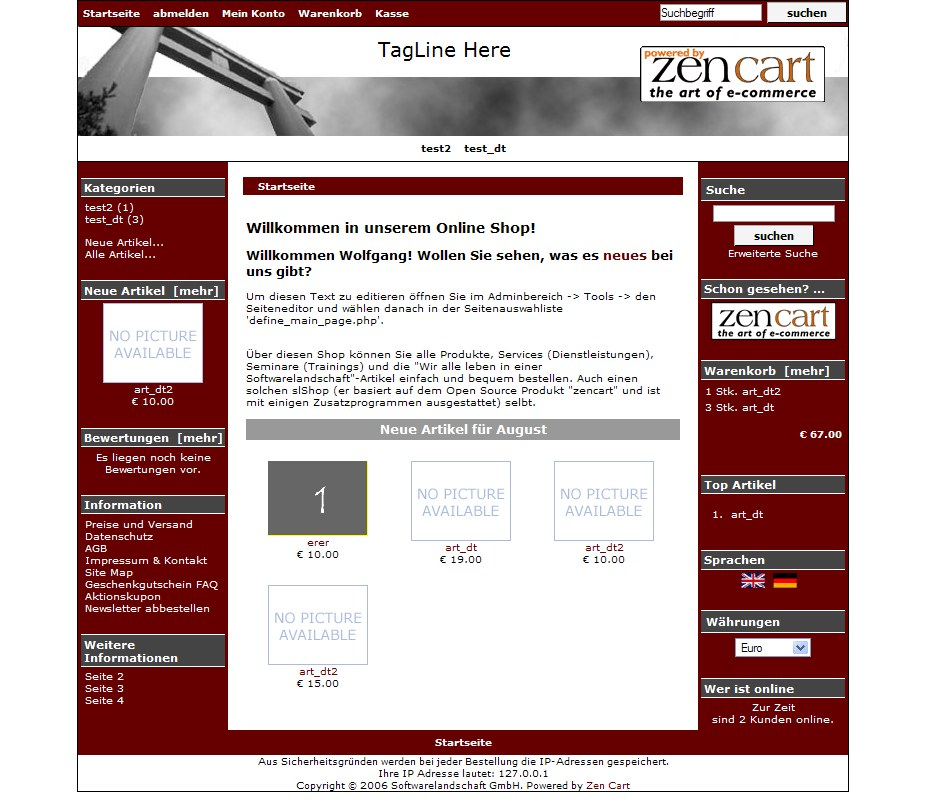
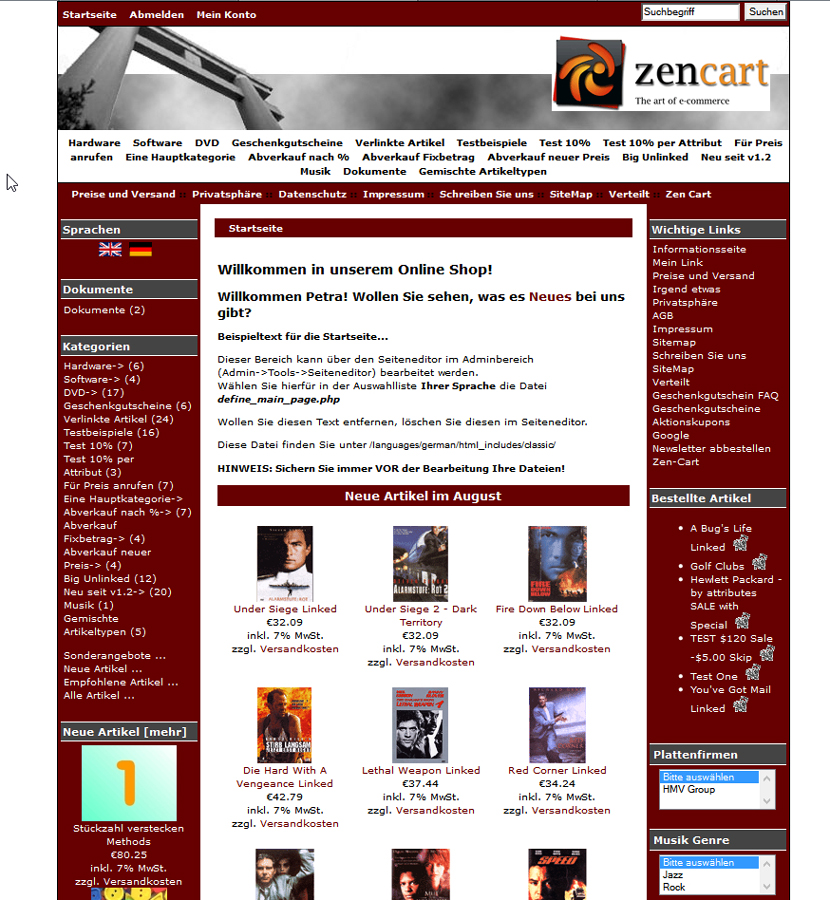
Aktualisierung Viennablood

diff --git a/branches/zc151/includes/templates/viennablood/css/stylesheet.css b/branches/zc151/includes/templates/viennablood/css/stylesheet.css
@@ -5,7 +5,7 @@
  * @copyright Copyright 2003-2013 Zen Cart Development Team
  * @copyright Portions Copyright 2003 osCommerce
  * @license http://www.zen-cart-pro.at/license/2_0.txt GNU Public License V2.0
- * @version $Id: stylesheet.css 836 2012-01-01 20:33:58Z webchills $
+ * @version $Id: stylesheet.css 837 2013-08-17 17:33:58Z webchills $
  */
 
 body {
@@ -55,9 +55,7 @@ FORM, SELECT, INPUT {
 	margin: 0.1em;
 	}
 
-input {
-	border: 1px solid;
-}
+
 input[type="hidden"] {
 	display:none;
 }
@@ -94,7 +92,7 @@ LABEL.checkboxLabel, LABEL.radioButtonLabel {
 	}
 	
 #logo {
-	margin-top: 15px;
+	margin-top: 10px;
 	float: right;
 	padding-right: 20px;
 }
@@ -144,7 +142,7 @@ HR {
 #mainWrapper {
 	text-align: left;
     width: 770px;
-    width: 95%;
+    
 	vertical-align: top;
 	}
 
@@ -155,7 +153,7 @@ HR {
 
 #logoWrapper {
     width:770px;
-    width:95%;
+    
 	height:110px;
 	}
 
@@ -318,7 +316,7 @@ HR {
 	float: right;
 	text-align: center;
 	margin: 1em;
-	border: 1px solid;
+	
 	padding: 1em;
 	}
 

diff --git a/branches/zc151/includes/templates/viennablood/css/stylesheet_colors.css b/branches/zc151/includes/templates/viennablood/css/stylesheet_colors.css
@@ -164,7 +164,7 @@ h3.leftBoxHeading a:hover, h3.rightBoxHeading a:hover{
 }
 
 .centerBoxHeading {
-	background-color: #999999;
+	background-color: #660000;
 	color: #ffffff;
 }
 
@@ -186,7 +186,7 @@ h3.leftBoxHeading a:hover, h3.rightBoxHeading a:hover{
 }
 
 .rowOdd {
-	background-color: #999999;
+	background-color: #FCFCFC;
 }
 
 .rowEven {
@@ -202,7 +202,7 @@ TR.tableHeading {
 }
 	
 .productListing-odd	{
-	background-color:#999999;
+	background-color:#FCFCFC;
 }
 
 .tabTable	{

diff --git a/branches/zc151/includes/templates/viennablood/css/checkout_confirmation.css b/branches/zc151/includes/templates/viennablood/css/checkout_confirmation.css
@@ -1,0 +1,3 @@
+#navColumnTwo{
+	display:none;
+}

diff --git a/branches/zc151/includes/templates/viennablood/css/checkout_payment.css b/branches/zc151/includes/templates/viennablood/css/checkout_payment.css
@@ -1,0 +1,3 @@
+#navColumnTwo{
+	display:none;
+}

diff --git a/branches/zc151/includes/templates/viennablood/css/checkout_shipping.css b/branches/zc151/includes/templates/viennablood/css/checkout_shipping.css
@@ -1,0 +1,3 @@
+#navColumnTwo{
+	display:none;
+}

diff --git a/branches/zc151/includes/templates/viennablood/templates/tpl_product_info_display.php b/branches/zc151/includes/templates/viennablood/templates/tpl_product_info_display.php
@@ -1,18 +1,15 @@
 <?php
 /**
-* Template designed by 12leaves.com
-* 12leaves.com - Free ecommerce templates and design services
-
  * Page Template
  *
  * Loaded automatically by index.php?main_page=product_info.<br />
  * Displays details of a typical product
  *
  * @package templateSystem
- * @copyright Copyright 2003-2006 Zen Cart Development Team
+ * @copyright Copyright 2003-2013 Zen Cart Development Team
  * @copyright Portions Copyright 2003 osCommerce
  * @license http://www.zen-cart-pro.at/license/2_0.txt GNU Public License V2.0
- * @version $Id: tpl_product_info_display.php 746 2011-08-12 07:58:36Z hugo13 $
+ * @version $Id: tpl_product_info_display.php 747 2013-08-17 09:58:36Z webchills $
  */
  //require(DIR_WS_MODULES . '/debug_blocks/product_info_prices.php');
 ?>
@@ -87,7 +84,32 @@ require($template->get_template_dir('/tpl_products_next_previous.php',DIR_WS_TEM
 <?php } ?>
 <!--eof Product description -->
 <br class="clearBoth" />
+<!--bof Attributes Module -->
+<?php
+  if ($pr_attr->fields['total'] > 0) {
+?>
+<?php
+/**
+ * display the product atributes
+ */
+  require($template->get_template_dir('/tpl_modules_attributes.php',DIR_WS_TEMPLATE, $current_page_base,'templates'). '/tpl_modules_attributes.php'); ?>
+<?php
+  }
+?>
+<!--eof Attributes Module -->
 
+<!--bof Quantity Discounts table -->
+<?php
+  if ($products_discount_type != 0) { ?>
+<?php
+/**
+ * display the products quantity discount
+ */
+ require($template->get_template_dir('/tpl_modules_products_quantity_discounts.php',DIR_WS_TEMPLATE, $current_page_base,'templates'). '/tpl_modules_products_quantity_discounts.php'); ?>
+<?php
+  }
+?>
+<!--eof Quantity Discounts table -->
 <!--bof Add to Cart Box -->
 <?php
 if (CUSTOMERS_APPROVAL == 3 and TEXT_LOGIN_FOR_PRICE_BUTTON_REPLACE_SHOWROOM == '') {
@@ -130,32 +152,7 @@ if (CUSTOMERS_APPROVAL == 3 and TEXT_LOGIN_FOR_PRICE_BUTTON_REPLACE_SHOWROOM == 
 ?>
 <!--eof Product details list -->
 
-<!--bof Attributes Module -->
-<?php
-  if ($pr_attr->fields['total'] > 0) {
-?>
-<?php
-/**
- * display the product atributes
- */
-  require($template->get_template_dir('/tpl_modules_attributes.php',DIR_WS_TEMPLATE, $current_page_base,'templates'). '/tpl_modules_attributes.php'); ?>
-<?php
-  }
-?>
-<!--eof Attributes Module -->
 
-<!--bof Quantity Discounts table -->
-<?php
-  if ($products_discount_type != 0) { ?>
-<?php
-/**
- * display the products quantity discount
- */
- require($template->get_template_dir('/tpl_modules_products_quantity_discounts.php',DIR_WS_TEMPLATE, $current_page_base,'templates'). '/tpl_modules_products_quantity_discounts.php'); ?>
-<?php
-  }
-?>
-<!--eof Quantity Discounts table -->
 
 <!--bof Additional Product Images -->
 <?php

diff --git a/branches/zc151/includes/templates/viennablood/template_info.php b/branches/zc151/includes/templates/viennablood/template_info.php
@@ -3,14 +3,14 @@
  * Template Information File
  *
  * @copyright 2006 swl web design
- * @copyright Portions 2003-2005 Zen Cart Development Team
+ * @copyright Portions 2003-2013 Zen Cart Development Team
  * @copyright Portions Copyright 2003 osCommerce
  * @license http://www.zen-cart-pro.at/license/2_0.txt GNU Public License V2.0
- * @version $Id: template_info.php by swl
+ * @version $Id: template_info.php 2013-08-17 09:58:36Z webchills $
  */
 $template_name = 'ViennaBlood';
-$template_version = 'Version 1.0';
-$template_author = 'zen-cart.at';
-$template_description = 'Simple red & white template for zen-cart.';
+$template_version = 'Version 1.1';
+$template_author = 'zen-cart-pro.at';
+$template_description = 'Simple red & white template for Zen Cart';
 $template_screenshot = 'screenshot.jpg';
 ?>
